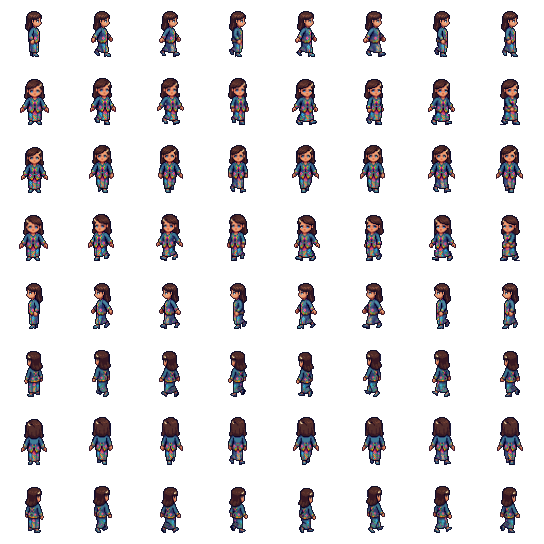
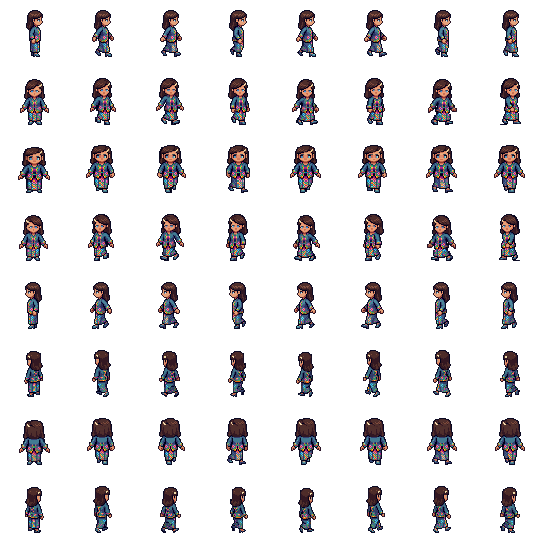
fix(2d): karakter Wanita umum lebih tajam (baca warna di tengah grid piksel sumber)
Gambar AI sumber adalah pixel art dengan grid ~14-19 px. Dulu dikecilkan dengan rata-rata
kotak (warna bercampur/buram); sekarang periode grid dideteksi per strip (Fourier, median
antar-frame) dan warna diambil di tengah tiap kotak, lalu disamakan ke tinggi 46 px (nearest).

diff --git a/scripts/media/build-garden-umum.py b/scripts/media/build-garden-umum.py
@@ -306,14 +306,21 @@ def place_in_cell(img):
 
 def build_woman():
     rows = {}
+    strips = {name: strip_frames(cutout(SRC / 'karakter-jalan' / f'{name}.jpeg')) for name in WOMAN_SOURCES.values()}
+    palette = woman_palette([f for frames in strips.values() for f in frames])
     for direction, name in WOMAN_SOURCES.items():
-        frames = strip_frames(cutout(SRC / 'karakter-jalan' / f'{name}.jpeg'))
+        frames = strips[name]
         idle, walk = frames[0], frames[1:]
         assert len(walk) >= WALK_FRAMES, f'{name}: hanya {len(walk)} frame jalan'
         # Siklus jalan sumber bisa 7-9 frame: ambil 7 yang tersebar merata supaya loop tetap mulus.
         picks = [walk[int(k * len(walk) / WALK_FRAMES)] for k in range(WALK_FRAMES)]
         factor = IDLE_HEIGHT / idle.height
-        rows[direction] = [place_in_cell(scale_box(f, factor)) for f in [idle, *picks]]
+        # Satu strip = satu gambar AI: ukuran 'piksel'-nya sama. Median antar-frame mencegah satu frame salah baca.
+        periods = [float(np.median([grid_axis(f, axis)[0] for f in frames])) for axis in (0, 1)]
+        native = [sample_grid(f, periods) for f in [idle, *picks]]
+        # Ukuran asli gambar AI ~46-49 px (timur-laut ~60): samakan tinggi idle ke 46 dengan nearest.
+        factor = IDLE_HEIGHT / native[0].height
+        rows[direction] = [place_in_cell(pixel_outline(resize_nearest(f, factor), saturation=1.05)) for f in native]
     for direction, source in WOMAN_MIRROR.items():
         rows[direction] = [c.transpose(Image.FLIP_LEFT_RIGHT) for c in rows[source]]
     atlas = Image.new('RGBA', (CELL * (WALK_FRAMES + 1), CELL * len(WOMAN_DIRS)))
@@ -322,6 +329,94 @@ def build_woman():
             atlas.alpha_composite(cell, (c * CELL, r * CELL))
     atlas.save(OUT / 'woman-atlas-umum.png', optimize=True)
     return atlas
+
+
+def grid_axis(img, axis, period=None):
+    """Periode & fase grid 'piksel' gambar AI di satu sumbu, dari puncak gradien warna (analisis Fourier).
+    Bila `period` diberikan, hanya fasenya yang dicari."""
+    a = np.asarray(img).astype(np.float32)
+    rgb, op = a[..., :3], a[..., 3] > 0
+    if axis == 0:
+        g = (np.abs(np.diff(rgb, axis=1)).sum(2) * (op[:, 1:] & op[:, :-1])).sum(0)
+    else:
+        g = (np.abs(np.diff(rgb, axis=0)).sum(2) * (op[1:] & op[:-1])).sum(1)
+    g = g - g.mean()
+    n = np.arange(len(g))
+    periods = [period] if period else np.arange(8, 30, 0.05)
+    best = max(((abs(z), p, z) for p in periods for z in [(g * np.exp(-2j * np.pi * n / p)).sum()]),
+               key=lambda t: t[0])
+    _, period, z = best
+    edge = (np.angle(z) % (2 * np.pi)) * period / (2 * np.pi) + 0.5  # posisi batas antar 'piksel'
+    return period, edge
+
+
+def sample_grid(img, periods):
+    """Baca warna di tengah tiap kotak grid (median 5x5, tahan noise JPEG) -> sprite tajam resolusi asli.
+    `periods` (x, y) sama untuk satu strip; per frame hanya fase grid yang dicari."""
+    a = np.asarray(img)
+    h, w = a.shape[:2]
+    centers = []
+    for axis, size in ((0, w), (1, h)):
+        period, edge = grid_axis(img, axis, periods[axis])
+        start = edge - period * np.floor(edge / period) + period / 2
+        centers.append(np.arange(start - period, size, period))
+    out = []
+    for cy in centers[1]:
+        row = []
+        for cx in centers[0]:
+            x, y = int(round(cx)), int(round(cy))
+            if not (0 <= x < w and 0 <= y < h):
+                row.append((0, 0, 0, 0))
+                continue
+            win = a[max(0, y - 2):y + 3, max(0, x - 2):x + 3].reshape(-1, 4)
+            solid = win[win[:, 3] > 0]
+            if len(solid) * 2 < len(win):
+                row.append((0, 0, 0, 0))
+            else:
+                r, g, b = np.median(solid[:, :3], axis=0).astype(np.uint8)
+                row.append((r, g, b, 255))
+        out.append(row)
+    sprite = Image.fromarray(np.array(out, np.uint8), 'RGBA')
+    return sprite.crop(sprite.getbbox())
+
+
+def resize_nearest(img, factor):
+    if abs(factor - 1) < 0.03:
+        return img
+    return img.resize((max(1, round(img.width * factor)), max(1, round(img.height * factor))), Image.NEAREST)
+
+
+def woman_palette(frames, colors=40):
+    """Satu palet untuk semua arah (warna konsisten), diambil dari piksel opaque semua frame."""
+    px = np.concatenate([np.asarray(f)[..., :3][np.asarray(f)[..., 3] > 0][::7] for f in frames])
+    side = int(np.ceil(np.sqrt(len(px))))
+    sample = np.zeros((side * side, 3), np.uint8)
+    sample[: len(px)] = px
+    sample[len(px):] = px[0]
+    return Image.fromarray(sample.reshape(side, side, 3), 'RGB').quantize(colors=colors, method=Image.Quantize.MEDIANCUT)
+
+
+def scale_mode(img, factor, palette, coverage=0.45):
+    """Pengecilan gaya pixel art: warna dikunci ke palet, lalu tiap piksel hasil = warna paling dominan
+    di kotak sumbernya (bukan rata-rata, jadi tidak ada warna campuran/buram)."""
+    w, h = img.size
+    tw, th = max(1, round(w * factor)), max(1, round(h * factor))
+    a = np.asarray(img)
+    idx = np.asarray(img.convert('RGB').quantize(palette=palette, dither=Image.Dither.NONE))
+    pal = np.array(palette.getpalette()[: 3 * 256], np.uint8).reshape(-1, 3)
+    opaque = a[..., 3] > 0
+    xs = np.linspace(0, w, tw + 1).round().astype(int)
+    ys = np.linspace(0, h, th + 1).round().astype(int)
+    out = np.zeros((th, tw, 4), np.uint8)
+    for j in range(th):
+        for i in range(tw):
+            block = opaque[ys[j]:ys[j + 1], xs[i]:xs[i + 1]]
+            if block.size == 0 or block.mean() < coverage:
+                continue
+            counts = np.bincount(idx[ys[j]:ys[j + 1], xs[i]:xs[i + 1]][block], minlength=256)
+            out[j, i, :3] = pal[counts.argmax()]
+            out[j, i, 3] = 255
+    return pixel_outline(Image.fromarray(out, 'RGBA'), saturation=1.0)
 
 
 def scale_box(img, factor):
